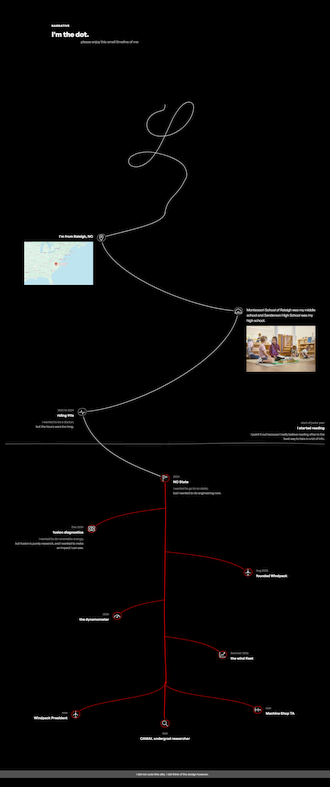
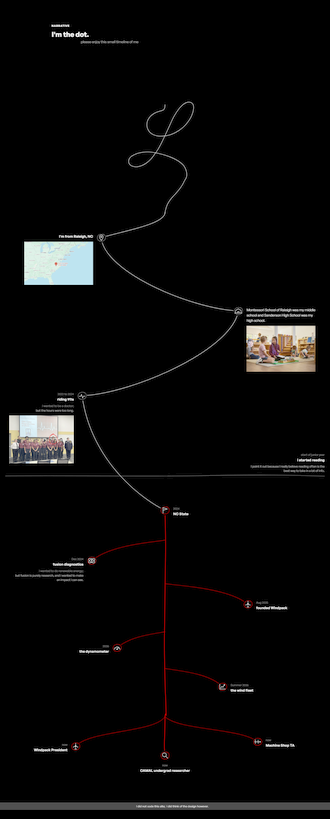
Circle me in the EMS cadet class photo, and drop the NC State aside
The class of 2022 photo goes under riding 911s with a hand drawn red loop
round me at the back. The stop grew, so the reading line and everything
from NC State on move down 140px. NC State is now just the year and the
name.

diff --git a/index.html b/index.html
@@ -160,7 +160,7 @@
   </label>
 
   <div class="minimap" aria-hidden="true">
-    <img class="mm-shot" src="/assets/minimap/narrative.png" width="330" height="787" alt="">
+    <img class="mm-shot" src="/assets/minimap/narrative.png" width="330" height="819" alt="">
     <span class="mm-view"></span>
   </div>
 </div>
@@ -196,18 +196,18 @@
   </section>
 
   <div class="tl">
-    <div class="tl-field" style="--h: 2340">
+    <div class="tl-field" style="--h: 2480">
 
-      <svg class="tl-lines" viewBox="0 0 100 2340" preserveAspectRatio="none" fill="none" aria-hidden="true">
-        <path class="tl-rule" d="M0 1010 C 20 1006, 40 1014, 60 1009 S 90 1006, 100 1011"/>
-        <path class="tl-walk" d="M50 0 C 50 50, 38 78, 30 110 C 31 260, 58 420, 73 430 C 71 640, 40 860, 24 870 C 27 1060, 44 1120, 50 1160"/>
-        <path class="tl-branch" d="M50 1290 C 46 1300, 33 1310, 27 1380"/>
-        <path class="tl-branch" d="M50 1480 C 55 1490, 70 1500, 76 1570"/>
-        <path class="tl-branch" d="M50 1690 C 46 1700, 39 1710, 35 1760"/>
-        <path class="tl-branch" d="M50 1850 C 54 1860, 64 1870, 68 1930"/>
-        <path class="tl-branch" d="M50 2060 C 47 2130, 26 2120, 22 2190"/>
-        <path class="tl-branch" d="M50 2060 C 54 2120, 74 2110, 79 2170"/>
-        <path class="tl-spine" d="M50 1160 C 50.6 1400, 49.4 1650, 50 1900 S 50.3 2010, 50 2060 C 50 2130, 49.6 2190, 50 2230"/>
+      <svg class="tl-lines" viewBox="0 0 100 2480" preserveAspectRatio="none" fill="none" aria-hidden="true">
+        <path class="tl-rule" d="M0 1150 C 20 1146, 40 1154, 60 1149 S 90 1146, 100 1151"/>
+        <path class="tl-walk" d="M50 0 C 50 50, 38 78, 30 110 C 31 260, 58 420, 73 430 C 71 600, 40 790, 24 800 C 27 1100, 44 1260, 50 1300"/>
+        <path class="tl-branch" d="M50 1430 C 46 1440, 33 1450, 27 1520"/>
+        <path class="tl-branch" d="M50 1620 C 55 1630, 70 1640, 76 1710"/>
+        <path class="tl-branch" d="M50 1830 C 46 1840, 39 1850, 35 1900"/>
+        <path class="tl-branch" d="M50 1990 C 54 2000, 64 2010, 68 2070"/>
+        <path class="tl-branch" d="M50 2200 C 47 2270, 26 2260, 22 2330"/>
+        <path class="tl-branch" d="M50 2200 C 54 2260, 74 2250, 79 2310"/>
+        <path class="tl-spine" d="M50 1300 C 50.6 1540, 49.4 1790, 50 2040 S 50.3 2150, 50 2200 C 50 2270, 49.6 2330, 50 2370"/>
       </svg>
 
       <section class="tl-beat side-l" style="--x: 30; --y: 110">
@@ -236,7 +236,7 @@
                alt="A Montessori classroom, with my six year old face badly pasted onto one of the kids">
         </div>
       </section>
-      <section class="tl-beat side-l" style="--x: 24; --y: 870">
+      <section class="tl-beat side-l" style="--x: 24; --y: 800">
         <span class="tl-node">
           <svg viewBox="0 0 40 40" fill="none" role="img" aria-label="a pulse trace">
             <g class="tl-ring"><path d="M27 6.2 C 35 8.6, 38.4 16, 36.2 23.4 C 34 31, 25.6 35.4, 17.2 34.4 C 8.8 33.4, 3.4 27, 4.4 19 C 5.4 11.2, 12.6 5.8, 21 6 C 24 6.1, 27.2 6.8, 29.6 8"/></g>
@@ -247,14 +247,16 @@
           <p class="tl-year">2022 to 2024</p>
           <h2>riding 911s</h2>
           <div class="tl-turn"><p>i wanted to be a doctor;</p><p class="tl-but">but the hours were too long.</p></div>
+          <img class="tl-pic" src="/assets/covers/ems-cadets.jpg" width="1200" height="888" loading="lazy"
+               alt="Wake County EMS Cadet Program class of 2022, with me circled in red at the back">
         </div>
       </section>
-      <div class="tl-reading" style="--y: 1010">
+      <div class="tl-reading" style="--y: 1150">
         <p class="tl-year">start of junior year</p>
         <h2>i started reading</h2>
         <p class="tl-note">I point it out because I really believe reading often is the best way to take in a lot of info.</p>
       </div>
-      <section class="tl-beat side-r ncsu" style="--x: 50; --y: 1160">
+      <section class="tl-beat side-r ncsu" style="--x: 50; --y: 1300">
         <span class="tl-node">
           <svg viewBox="0 0 40 40" fill="none" role="img" aria-label="a pennant">
             <g class="tl-ring"><path d="M27 6.2 C 35 8.6, 38.4 16, 36.2 23.4 C 34 31, 25.6 35.4, 17.2 34.4 C 8.8 33.4, 3.4 27, 4.4 19 C 5.4 11.2, 12.6 5.8, 21 6 C 24 6.1, 27.2 6.8, 29.6 8"/></g>
@@ -264,10 +266,9 @@
         <div class="tl-body">
           <p class="tl-year">2024</p>
           <h2>NC State</h2>
-          <div class="tl-turn"><p>i wanted to go to nc state;</p><p class="tl-but">but i wanted to do engineering now.</p></div>
         </div>
       </section>
-      <section class="tl-beat side-l ncsu" style="--x: 27; --y: 1380">
+      <section class="tl-beat side-l ncsu" style="--x: 27; --y: 1520">
         <span class="tl-node">
           <svg viewBox="0 0 40 40" fill="none" role="img" aria-label="an atom">
             <g class="tl-ring"><path d="M27 6.2 C 35 8.6, 38.4 16, 36.2 23.4 C 34 31, 25.6 35.4, 17.2 34.4 C 8.8 33.4, 3.4 27, 4.4 19 C 5.4 11.2, 12.6 5.8, 21 6 C 24 6.1, 27.2 6.8, 29.6 8"/></g>
@@ -280,7 +281,7 @@
           <div class="tl-turn"><p>i wanted to do renewable energy;</p><p class="tl-but">but fusion is purely research, and i wanted to make an impact i can see.</p></div>
         </div>
       </section>
-      <section class="tl-beat side-r ncsu" style="--x: 76; --y: 1570">
+      <section class="tl-beat side-r ncsu" style="--x: 76; --y: 1710">
         <span class="tl-node">
           <svg viewBox="0 0 40 40" fill="none" role="img" aria-label="a wind turbine">
             <g class="tl-ring"><path d="M27 6.2 C 35 8.6, 38.4 16, 36.2 23.4 C 34 31, 25.6 35.4, 17.2 34.4 C 8.8 33.4, 3.4 27, 4.4 19 C 5.4 11.2, 12.6 5.8, 21 6 C 24 6.1, 27.2 6.8, 29.6 8"/></g>
@@ -292,7 +293,7 @@
           <h2>founded Windpack</h2>
         </div>
       </section>
-      <section class="tl-beat side-l ncsu" style="--x: 35; --y: 1760">
+      <section class="tl-beat side-l ncsu" style="--x: 35; --y: 1900">
         <span class="tl-node">
           <svg viewBox="0 0 40 40" fill="none" role="img" aria-label="a dial gauge">
             <g class="tl-ring"><path d="M27 6.2 C 35 8.6, 38.4 16, 36.2 23.4 C 34 31, 25.6 35.4, 17.2 34.4 C 8.8 33.4, 3.4 27, 4.4 19 C 5.4 11.2, 12.6 5.8, 21 6 C 24 6.1, 27.2 6.8, 29.6 8"/></g>
@@ -304,7 +305,7 @@
           <h2>the dynamometer</h2>
         </div>
       </section>
-      <section class="tl-beat side-r ncsu" style="--x: 68; --y: 1930">
+      <section class="tl-beat side-r ncsu" style="--x: 68; --y: 2070">
         <span class="tl-node">
           <svg viewBox="0 0 40 40" fill="none" role="img" aria-label="a rising plot">
             <g class="tl-ring"><path d="M27 6.2 C 35 8.6, 38.4 16, 36.2 23.4 C 34 31, 25.6 35.4, 17.2 34.4 C 8.8 33.4, 3.4 27, 4.4 19 C 5.4 11.2, 12.6 5.8, 21 6 C 24 6.1, 27.2 6.8, 29.6 8"/></g>
@@ -316,7 +317,7 @@
           <h2>the wind fleet</h2>
         </div>
       </section>
-      <section class="tl-beat side-l ncsu" style="--x: 22; --y: 2190">
+      <section class="tl-beat side-l ncsu" style="--x: 22; --y: 2330">
         <span class="tl-node">
           <svg viewBox="0 0 40 40" fill="none" role="img" aria-label="a wind turbine">
             <g class="tl-ring"><path d="M27 6.2 C 35 8.6, 38.4 16, 36.2 23.4 C 34 31, 25.6 35.4, 17.2 34.4 C 8.8 33.4, 3.4 27, 4.4 19 C 5.4 11.2, 12.6 5.8, 21 6 C 24 6.1, 27.2 6.8, 29.6 8"/></g>
@@ -328,7 +329,7 @@
           <h2>Windpack President</h2>
         </div>
       </section>
-      <section class="tl-beat below ncsu" style="--x: 50; --y: 2230">
+      <section class="tl-beat below ncsu" style="--x: 50; --y: 2370">
         <span class="tl-node">
           <svg viewBox="0 0 40 40" fill="none" role="img" aria-label="a magnifying glass">
             <g class="tl-ring"><path d="M27 6.2 C 35 8.6, 38.4 16, 36.2 23.4 C 34 31, 25.6 35.4, 17.2 34.4 C 8.8 33.4, 3.4 27, 4.4 19 C 5.4 11.2, 12.6 5.8, 21 6 C 24 6.1, 27.2 6.8, 29.6 8"/></g>
@@ -340,7 +341,7 @@
           <h2>CAMAL undergrad researcher</h2>
         </div>
       </section>
-      <section class="tl-beat side-r ncsu" style="--x: 79; --y: 2170">
+      <section class="tl-beat side-r ncsu" style="--x: 79; --y: 2310">
         <span class="tl-node">
           <svg viewBox="0 0 40 40" fill="none" role="img" aria-label="a pair of calipers">
             <g class="tl-ring"><path d="M27 6.2 C 35 8.6, 38.4 16, 36.2 23.4 C 34 31, 25.6 35.4, 17.2 34.4 C 8.8 33.4, 3.4 27, 4.4 19 C 5.4 11.2, 12.6 5.8, 21 6 C 24 6.1, 27.2 6.8, 29.6 8"/></g>

diff --git a/assets/css/site.css b/assets/css/site.css
@@ -699,7 +699,7 @@ body.split { overflow: hidden; }
    left over, both measured off the real panels at a typical window height. */
 
 #portfolio .mm-view { height: 34px; --travel: 77px; }
-#narrative .mm-view { height: 29px; --travel: 77px; }
+#narrative .mm-view { height: 29px; --travel: 81px; }
 
 @keyframes mm-run {
   from { transform: translateY(0); }
